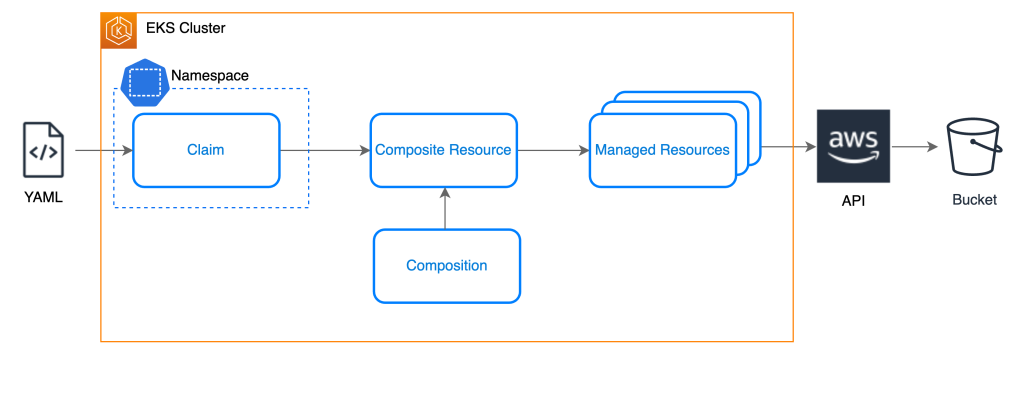
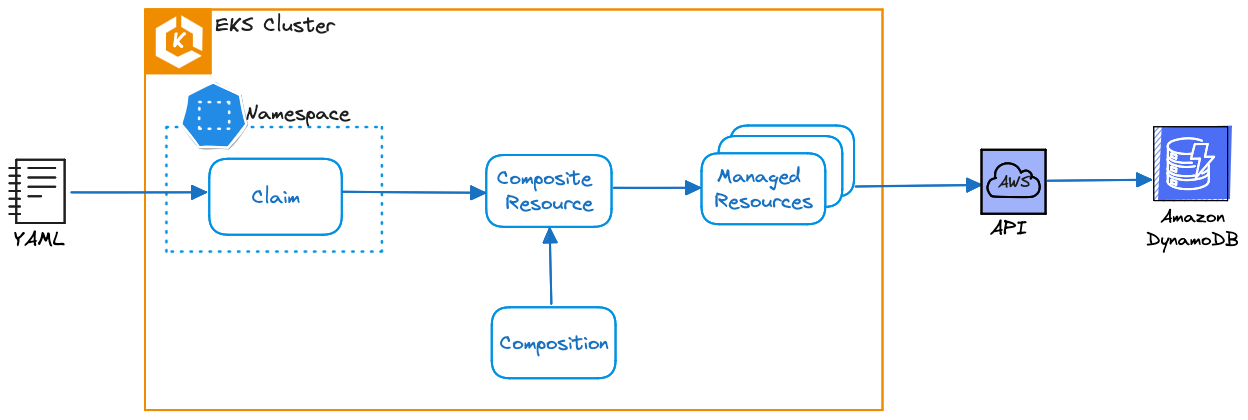
updating Crossplane documents and assets

diff --git a/website/docs/automation/controlplanes/crossplane/compositions.md b/website/docs/automation/controlplanes/crossplane/compositions.md
@@ -7,7 +7,8 @@ In addition to provisioning individual cloud resources, Crossplane offers a high
 
 A `CompositeResourceDefinition` (or XRD) defines the type and schema of your Composite Resource (XR). It lets Crossplane know that you want a particular kind of XR to exist, and what fields that XR should have. An XRD is a little like a CustomResourceDefinition (CRD), but slightly more opinionated. Writing an XRD is mostly a matter of specifying an OpenAPI ["structural schema"](https://kubernetes.io/docs/tasks/extend-kubernetes/custom-resources/custom-resource-definitions/).
 
-First, lets provide a definition that can be used to create a database by members of the application team in their corresponding namespace. In this example the user only needs to specify `databaseName`, `storageGB` and `secret` location
+
+First, lets provide a definition that can be used to create a DynamoDB table by members of the application team in their corresponding namespace. In this example the user only needs to specify **name**, **key attributes** and **index name** fields.
 
 ```file
 manifests/modules/automation/controlplanes/crossplane/compositions/composition/definition.yaml
@@ -18,7 +19,7 @@ A Composition lets Crossplane know what to do when someone creates a Composite R
 The following Composition provisions the managed resources `Table`
 
 ```file
-manifests/modules/automation/controlplanes/crossplane/compositions/composition/composition.yaml
+manifests/modules/automation/controlplanes/crossplane/compositions/composition/table.yaml
 ```
 
 Apply this to our EKS cluster:
@@ -31,10 +32,16 @@ composition.apiextensions.crossplane.io/table.dynamodb.awsblueprints.io created
 
 Once we’ve configured Crossplane with the details of the new XR we can either create one directly or use a Claim. Typically only the team responsible for configuring Crossplane (often a platform or SRE team) have permission to create XRs directly. Everyone else manages XRs via a lightweight proxy resource called a Composite Resource Claim (or claim for short).
 
-With this claim the developer only needs to specify a default DynamoDB table name, hash keys, index to create the table. This allows the platform or SRE team to standardize on aspects for table creation.
+With this claim the developer only needs to specify a default **DynamoDB table name, hash keys, global index name** to create the table. This allows the platform or SRE team to standardize on aspects such as billing mode, default read/write capacity, projection type, cost and infrastructure related tags.
 
 ```file
 manifests/modules/automation/controlplanes/crossplane/compositions/claim/claim.yaml
+```
+
+Cleanup the Dynamodb table created from the previous Managed Resource section.
+
+```bash
+$ kubectl delete table items -n carts --ignore-not-found=true > /dev/null
 ```
 
 Create the table by creating a `Claim`:
@@ -47,9 +54,46 @@ dynamodbtable.awsblueprints.io/items created
 It takes some time to provision the AWS managed services, in the case of DynamoDB up to 2 minutes. Crossplane will report the status of the reconciliation in the `SYNCED` field of the Kubernetes Composite and Managed resource.
 
 ```bash
-$ kubectl get XDynamoDBTable
 $ kubectl get table
+NAME                READY   SYNCED   EXTERNAL-NAME   AGE
+items-m5gnc-6w87d   True    True     items           3m37s
 ```
+---
+
+Now, lets try to understand how the DynamoDB table is deployed using this claim:
+
+![Crossplane reconciler concept](./assets/ddb-claim-architecture.png)
+
+On querying the deployed claim `DynamoDBTable`, we can observe that it points to and creates a Composite Resource (XR) `XDynamoDBTable`
+
+```bash
+$ kubectl get DynamoDBTable -o yaml | grep "resourceRef:" -A 3
+    
+    resourceRef:
+      apiVersion: awsblueprints.io/v1alpha1
+      kind: XDynamoDBTable
+      name: items-m5gnc
+```
+
+The Composition `table.dynamodb.awsblueprints.io` shows Composite Resource Kind (XR-KIND) as `XDynamoDBTable`. This Composition lets Crossplane know what to do when we created the `XDynamoDBTable` XR. Each Composition creates a link between an XR and a set of one or more Managed Resources.
+
+```bash
+$ kubectl get composition
+NAME                              XR-KIND          XR-APIVERSION               AGE
+table.dynamodb.awsblueprints.io   XDynamoDBTable   awsblueprints.io/v1alpha1   143m
+```
+On querying the `XDynamoDBTable` XR, we can observe that it creates DynamoDB Managed Resource `Table`.
+
+```bash
+$ kubectl get XDynamoDBTable -o yaml | grep "resourceRefs:" -A 3  
+ 
+    resourceRefs:
+    - apiVersion: dynamodb.aws.upbound.io/v1beta1
+      kind: Table
+      name: items-m5gnc-6w87d
+```
+---
+
 When new resources are created or updated, application configurations also need to be updated to use these new resources. 
 Update the application to use the DynamoDB endpoint:
 
@@ -63,8 +107,12 @@ service/carts unchanged
 service/carts-dynamodb unchanged
 deployment.apps/carts configured
 deployment.apps/carts-dynamodb unchanged
+```
+
+```bash
 $ kubectl rollout restart -n carts deployment/carts
 $ kubectl rollout status -n carts deployment/carts --timeout=30s
+deployment "carts" successfully rolled out
 ```
 
 ----
@@ -101,7 +149,13 @@ To verify that the **Carts** module is in fact using the DynamoDB table we just 
 And to check if items are in the DynamoDB table as well, run
 
 ```bash
-aws dynamodb scan --table-name items
+$ aws dynamodb scan --table-name items --query 'Items[].{itemId:itemId,Price:unitPrice}' --output text
+PRICE   795
+ITEMID  510a0d7e-8e83-4193-b483-e27e09ddc34d
+PRICE   385
+ITEMID  6d62d909-f957-430e-8689-b5129c0bb75e
+PRICE   50
+ITEMID  a0a4f044-b040-410d-8ead-4de0446aec7e
 ```
 
 

diff --git a/website/docs/automation/controlplanes/crossplane/how-it-works.md b/website/docs/automation/controlplanes/crossplane/how-it-works.md
@@ -8,11 +8,19 @@ Running Crossplane in a cluster consists of two main parts:
 1. The Crossplane controller which provides the core components
 2. One or more Crossplane providers which each provide a controller and Custom Resource Definitions to integrate with a particular provider, such as AWS
 
-The Crossplane controller and the Upbond provider have been pre-installed in our EKS cluster, each running as a deployment in the `crossplane-system` namespace along with the `crossplane-rbac-manager`:
+The Crossplane controller, Upbound aws provider and  have been pre-installed in our EKS cluster, each running as a deployment in the `crossplane-system` namespace along with the `crossplane-rbac-manager`:
 
 ```bash
 $ kubectl get deployment -n crossplane-system
+NAME                                         READY   UP-TO-DATE   AVAILABLE   AGE
+crossplane                                   1/1     1            1           3h7m
+crossplane-rbac-manager                      1/1     1            1           3h7m
+upbound-aws-provider-dynamodb-23a48a51e223   1/1     1            1           3h6m
+upbound-provider-family-aws-1ac09674120f     1/1     1            1           21h
 ```
+
+Here, `upbound-provider-family-aws` represents Crossplane provider for Amazon Web Services (AWS) developed and supported by Upbound. `upbound-aws-provider-dynamodb` is a subset of the prior dedicated to deploy DynamoDB via Crossplane.
+
 
 Crossplane provides a simplified interface for developers to request infrastructure resources via Kubernetes manifests called claims. As shown in this diagram, claims are the only namespace-scoped Crossplane resources, serving as the developer interface and abstracting away implementation details. When a claim is deployed to the cluster, it creates a Composite Resource (XR), a Kubernetes custom resource representing one or more cloud resources defined through templates called Compositions. The Composite Resource creates one or more Managed Resources which interact with the AWS API to request the creation of the desired infrastructure resources. 
 

diff --git a/website/docs/automation/controlplanes/crossplane/resources.md b/website/docs/automation/controlplanes/crossplane/resources.md
@@ -40,7 +40,7 @@ To learn more about how IRSA works, check out the [IRSA Lab](../../../security/i
 
 ---
 
-Now, let's explore how we'll create the DynamoDB Table via a Crossplane managed resource manifest
+Now, let's explore how we'll create the DynamoDB table via a Crossplane managed resource manifest
 
 ```file
 manifests/modules/automation/controlplanes/crossplane/managed/table.yaml
@@ -57,7 +57,10 @@ It takes some time to provision the AWS managed services, in the case of DynamoD
 
 ```bash
 $ kubectl get table
+NAME                READY   SYNCED   EXTERNAL-NAME   AGE
+items-m5gnc-6w87d   True    True     items           3m37s
 ```
+
 When new resources are created or updated, application configurations also need to be updated to use these new resources. 
 Update the application to use the DynamoDB endpoint:
 
@@ -71,8 +74,12 @@ service/carts unchanged
 service/carts-dynamodb unchanged
 deployment.apps/carts configured
 deployment.apps/carts-dynamodb unchanged
+```
+
+```bash
 $ kubectl rollout restart -n carts deployment/carts
 $ kubectl rollout status -n carts deployment/carts --timeout=30s
+deployment "carts" successfully rolled out
 ```
 
 ----
@@ -109,7 +116,13 @@ To verify that the **Carts** module is in fact using the DynamoDB table we just 
 And to check if items are in the DynamoDB table as well, run
 
 ```bash
-aws dynamodb scan --table-name items
+$ aws dynamodb scan --table-name items --query 'Items[].{itemId:itemId,Price:unitPrice}' --output text
+PRICE   795
+ITEMID  510a0d7e-8e83-4193-b483-e27e09ddc34d
+PRICE   385
+ITEMID  6d62d909-f957-430e-8689-b5129c0bb75e
+PRICE   50
+ITEMID  a0a4f044-b040-410d-8ead-4de0446aec7e
 ```
 
 
